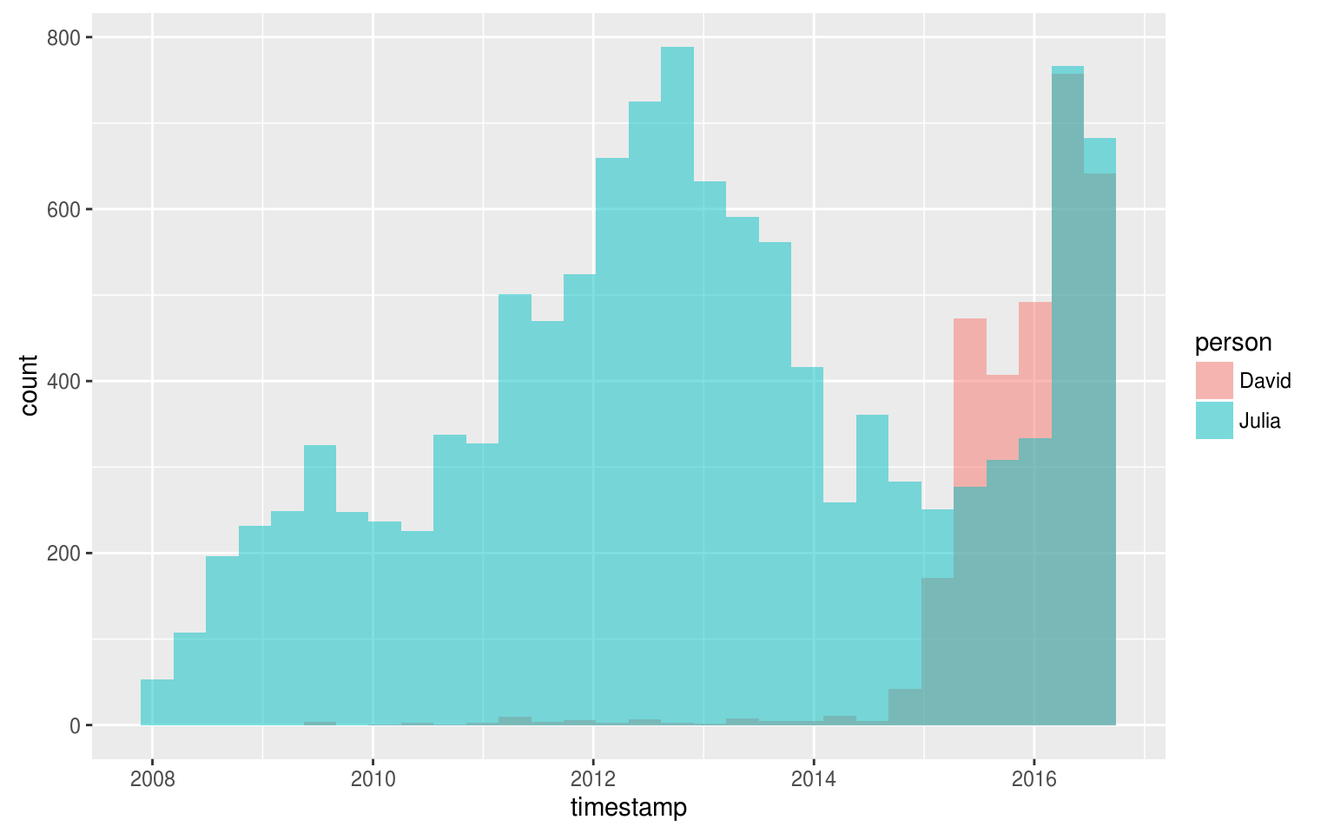
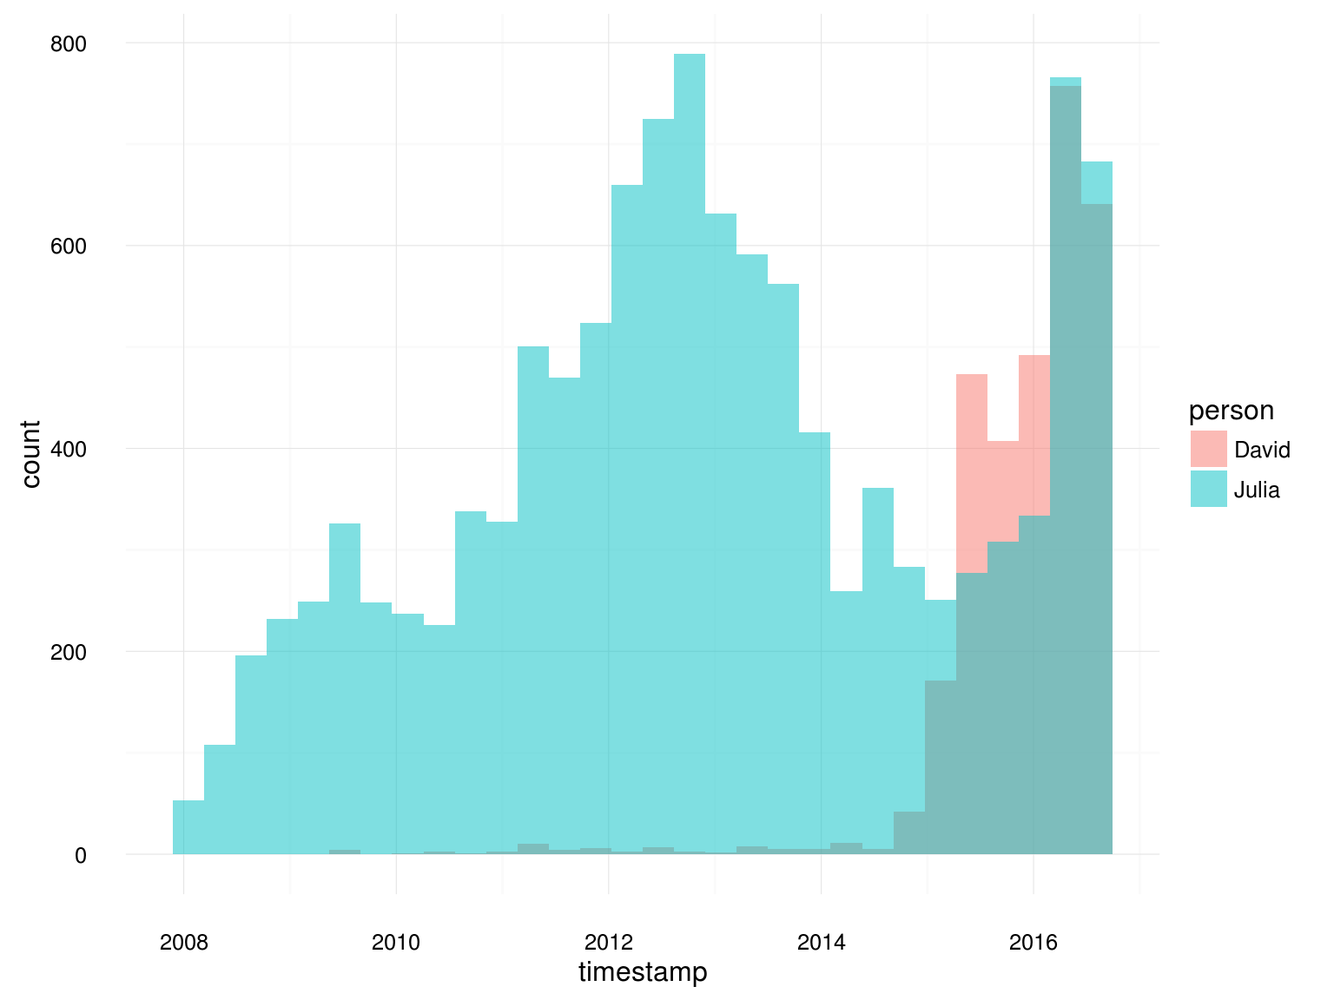
Updating book (39)

diff --git a/twitter.html b/twitter.html
@@ -205,31 +205,15 @@ code > span.in { color: #60a0b0; font-weight: bold; font-style: italic; } /* Inf
             <section class="normal" id="section-">
 <div id="twitter" class="section level1">
 <h1><span class="header-section-number">8</span> Case study: comparing Twitter archives</h1>
-<p>One type of text that has gotten a good deal of attention in recent years is text shared online via Twitter. In fact, several of the sentiment lexicons used in this book (and commonly used in general) were designed for use with and validated on tweets. Both of the authors of this book are on Twitter and are fairly regular users of it so in this case study, let’s compare the entire Twitter archives of Julia and David.</p>
+<p>One type of text that has certainly received its share of attention in recent years is text shared online via Twitter. In fact, several of the sentiment lexicons used in this book (and commonly used in general) were designed for use with and validated on tweets. Both of the authors of this book are on Twitter and are fairly regular users of it so in this case study, let’s compare the entire Twitter archives of <a href="https://twitter.com/juliasilge">Julia</a> and <a href="https://twitter.com/drob">David</a>.</p>
 <div id="getting-the-data-and-distribution-of-tweets" class="section level2">
 <h2><span class="header-section-number">8.1</span> Getting the data and distribution of tweets</h2>
 <p>An individual can download their own Twitter archive by following <a href="https://support.twitter.com/articles/20170160">directions available here</a>. We each downloaded ours and will now open them up. Let’s use lubridate to convert the string timestamps to date-time objects and just take a look at our tweeting patterns overall.</p>
-<div class="sourceCode"><pre class="sourceCode r"><code class="sourceCode r"><span class="kw">library</span>(lubridate)</code></pre></div>
-<pre><code>## Loading required package: methods</code></pre>
-<pre><code>## 
-## Attaching package: &#39;lubridate&#39;</code></pre>
-<pre><code>## The following object is masked from &#39;package:base&#39;:
-## 
-##     date</code></pre>
-<div class="sourceCode"><pre class="sourceCode r"><code class="sourceCode r"><span class="kw">library</span>(ggplot2)
-<span class="kw">library</span>(dplyr)</code></pre></div>
-<pre><code>## 
-## Attaching package: &#39;dplyr&#39;</code></pre>
-<pre><code>## The following objects are masked from &#39;package:lubridate&#39;:
-## 
-##     intersect, setdiff, union</code></pre>
-<pre><code>## The following objects are masked from &#39;package:stats&#39;:
-## 
-##     filter, lag</code></pre>
-<pre><code>## The following objects are masked from &#39;package:base&#39;:
-## 
-##     intersect, setdiff, setequal, union</code></pre>
-<div class="sourceCode"><pre class="sourceCode r"><code class="sourceCode r">tweets_julia &lt;-<span class="st"> </span><span class="kw">read.csv</span>(<span class="st">&quot;data/tweets_julia.csv&quot;</span>, <span class="dt">stringsAsFactors =</span> <span class="ot">FALSE</span>)
+<div class="sourceCode"><pre class="sourceCode r"><code class="sourceCode r"><span class="kw">library</span>(lubridate)
+<span class="kw">library</span>(ggplot2)
+<span class="kw">library</span>(dplyr)
+
+tweets_julia &lt;-<span class="st"> </span><span class="kw">read.csv</span>(<span class="st">&quot;data/tweets_julia.csv&quot;</span>, <span class="dt">stringsAsFactors =</span> <span class="ot">FALSE</span>)
 tweets_dave &lt;-<span class="st"> </span><span class="kw">read.csv</span>(<span class="st">&quot;data/tweets_dave.csv&quot;</span>, <span class="dt">stringsAsFactors =</span> <span class="ot">FALSE</span>)
 tweets_julia$timestamp &lt;-<span class="st"> </span><span class="kw">with_tz</span>(<span class="kw">ymd_hms</span>(tweets_julia$timestamp), 
                                   <span class="st">&quot;America/Denver&quot;</span>)
@@ -239,67 +223,75 @@ tweets &lt;-<span class="st"> </span><span class="kw">bind_rows</span>(tweets_ju
                     tweets_dave %&gt;%<span class="st"> </span><span class="kw">mutate</span>(<span class="dt">person =</span> <span class="st">&quot;David&quot;</span>))
 <span class="kw">ggplot</span>(tweets, <span class="kw">aes</span>(<span class="dt">x =</span> timestamp, <span class="dt">fill =</span> person)) +
 <span class="st">  </span><span class="kw">geom_histogram</span>(<span class="dt">alpha =</span> <span class="fl">0.5</span>, <span class="dt">position =</span> <span class="st">&quot;identity&quot;</span>)</code></pre></div>
-<pre><code>## `stat_bin()` using `bins = 30`. Pick better value with `binwidth`.</code></pre>
-<p><img src="08-tweet-archives_files/figure-html/setup-1.png" width="768" /> David and Julia tweet at about the same rate currently and joined Twitter about a year apart from each other, but there good 5 or so years where David was not active on Twitter and Julia was. In total, Julia has about 4 times as many tweets as David.</p>
+<p><img src="08-tweet-archives_files/figure-html/setup-1.png" width="768" /></p>
+<p>David and Julia tweet at about the same rate currently and joined Twitter about a year apart from each other, but there about 5 years where David was not active on Twitter and Julia was. In total, Julia has about 4 times as many tweets as David.</p>
 </div>
 <div id="word-frequencies-1" class="section level2">
 <h2><span class="header-section-number">8.2</span> Word frequencies</h2>
-<p>Let’s use <code>unnest_tokens</code> to make a tidy dataframe of all the words in our tweets, and remove the common English stop words.</p>
+<p>Let’s use <code>unnest_tokens</code> to make a tidy dataframe of all the words in our tweets, and remove the common English stop words. There are certain conventions in how people use text on Twitter, so we will do a bit more work with our text here than, for example, we did with the narrative text from Project Gutenberg. The first <code>mutate</code> line below removes links and cleans out some characters that we don’t want. In the call to <code>unnest_tokens</code>, we unnest using a regex pattern, instead of just looking for single unigrams (words). This regex pattern is very useful for dealing with Twitter text; it retains hashtags and mentions of usernames with the <code>\@</code> symbol. Because we have kept these types of symbols in the text, we can’t use a simple <code>anti_join</code> to remove stop words. Instead, we can take the approach shown in the <code>filter</code> line that uses <code>str_detect</code> from the stringr library.</p>
 <div class="sourceCode"><pre class="sourceCode r"><code class="sourceCode r"><span class="kw">library</span>(tidytext)
-tidy_tweets &lt;-<span class="st"> </span>tweets %&gt;%<span class="st"> </span><span class="kw">unnest_tokens</span>(word, text) %&gt;%<span class="st"> </span><span class="kw">anti_join</span>(stop_words)</code></pre></div>
-<pre><code>## Joining, by = &quot;word&quot;</code></pre>
+<span class="kw">library</span>(stringr)
+
+reg &lt;-<span class="st"> &quot;([^A-Za-z</span><span class="ch">\\</span><span class="st">d#@&#39;]|&#39;(?![A-Za-z</span><span class="ch">\\</span><span class="st">d#@]))&quot;</span>
+tidy_tweets &lt;-<span class="st"> </span>tweets %&gt;%<span class="st"> </span>
+<span class="st">  </span><span class="kw">mutate</span>(<span class="dt">text =</span> <span class="kw">str_replace_all</span>(text, <span class="st">&quot;https://t.co/[A-Za-z</span><span class="ch">\\</span><span class="st">d]+|http://[A-Za-z</span><span class="ch">\\</span><span class="st">d]+|&amp;amp;|&amp;lt;|&amp;gt;|RT&quot;</span>, <span class="st">&quot;&quot;</span>)) %&gt;%
+<span class="st">  </span><span class="kw">unnest_tokens</span>(word, text, <span class="dt">token =</span> <span class="st">&quot;regex&quot;</span>, <span class="dt">pattern =</span> reg) %&gt;%
+<span class="st">  </span><span class="kw">filter</span>(!word %in%<span class="st"> </span>stop_words$word,
+         <span class="kw">str_detect</span>(word, <span class="st">&quot;[a-z]&quot;</span>))</code></pre></div>
 <p>Now we can calculate word frequencies for each person</p>
 <div class="sourceCode"><pre class="sourceCode r"><code class="sourceCode r">frequency &lt;-<span class="st"> </span>tidy_tweets %&gt;%<span class="st"> </span><span class="kw">group_by</span>(person) %&gt;%<span class="st"> </span>
 <span class="st">  </span><span class="kw">count</span>(word, <span class="dt">sort =</span> <span class="ot">TRUE</span>) %&gt;%<span class="st"> </span>
 <span class="st">  </span><span class="kw">left_join</span>(tidy_tweets %&gt;%<span class="st"> </span><span class="kw">group_by</span>(person) %&gt;%<span class="st"> </span><span class="kw">summarise</span>(<span class="dt">total =</span> <span class="kw">n</span>())) %&gt;%
-<span class="st">  </span><span class="kw">mutate</span>(<span class="dt">freq =</span> n/total)</code></pre></div>
-<pre><code>## Joining, by = &quot;person&quot;</code></pre>
-<div class="sourceCode"><pre class="sourceCode r"><code class="sourceCode r">frequency</code></pre></div>
-<pre><code>## Source: local data frame [25,210 x 5]
+<span class="st">  </span><span class="kw">mutate</span>(<span class="dt">freq =</span> n/total)
+frequency</code></pre></div>
+<pre><code>## Source: local data frame [23,092 x 5]
 ## Groups: person [2]
 ## 
-##    person       word     n total        freq
-##     &lt;chr&gt;      &lt;chr&gt; &lt;int&gt; &lt;int&gt;       &lt;dbl&gt;
-## 1   Julia       t.co  2218 85215 0.026028281
-## 2   Julia       http  1438 85215 0.016874963
-## 3   David       t.co  1344 27338 0.049162338
-## 4   David      https  1045 27338 0.038225181
-## 5   Julia      https  1040 85215 0.012204424
-## 6   David         rt   909 27338 0.033250421
-## 7   Julia         rt   867 85215 0.010174265
-## 8   Julia       time   568 85215 0.006665493
-## 9   Julia selkie1970   565 85215 0.006630288
-## 10  Julia    skedman   518 85215 0.006078742
-## # ... with 25,200 more rows</code></pre>
+##    person           word     n total        freq
+##     &lt;chr&gt;          &lt;chr&gt; &lt;int&gt; &lt;int&gt;       &lt;dbl&gt;
+## 1   Julia           time   567 76811 0.007381755
+## 2   Julia    @selkie1970   565 76811 0.007355717
+## 3   Julia       @skedman   518 76811 0.006743826
+## 4   Julia            day   470 76811 0.006118915
+## 5   Julia           baby   410 76811 0.005337777
+## 6   David        #rstats   359 22426 0.016008205
+## 7   Julia     @doctormac   342 76811 0.004452487
+## 8   David @hadleywickham   306 22426 0.013644876
+## 9   Julia           love   303 76811 0.003944747
+## 10  Julia   @haleynburke   291 76811 0.003788520
+## # ... with 23,082 more rows</code></pre>
 <p>This is a lovely, tidy data frame but we would actually like to plot those frequencies on the x- and y-axes of a plot, so we will need to use an <code>inner_join</code> and make a different dataframe.</p>
 <div class="sourceCode"><pre class="sourceCode r"><code class="sourceCode r">frequency &lt;-<span class="st"> </span><span class="kw">inner_join</span>(frequency %&gt;%<span class="st"> </span><span class="kw">filter</span>(person ==<span class="st"> &quot;Julia&quot;</span>) %&gt;%<span class="st"> </span><span class="kw">rename</span>(<span class="dt">Julia =</span> freq),
                         frequency %&gt;%<span class="st"> </span><span class="kw">filter</span>(person ==<span class="st"> &quot;David&quot;</span>) %&gt;%<span class="st"> </span><span class="kw">rename</span>(<span class="dt">David =</span> freq),
                         <span class="dt">by =</span> <span class="st">&quot;word&quot;</span>) %&gt;%<span class="st"> </span>
 <span class="st">  </span><span class="kw">ungroup</span>() %&gt;%<span class="st"> </span><span class="kw">select</span>(word, Julia, David)
 frequency</code></pre></div>
-<pre><code>## # A tibble: 3,674 x 3
-##     word       Julia        David
-##    &lt;chr&gt;       &lt;dbl&gt;        &lt;dbl&gt;
-## 1   t.co 0.026028281 0.0491623381
-## 2   http 0.016874963 0.0150340186
-## 3  https 0.012204424 0.0382251811
-## 4     rt 0.010174265 0.0332504207
-## 5   time 0.006665493 0.0035115956
-## 6    day 0.005515461 0.0012071110
-## 7   baby 0.004811360 0.0001463165
-## 8   love 0.003555712 0.0017192187
-## 9  house 0.003403157 0.0001097374
-## 10   amp 0.003356217 0.0015363231
-## # ... with 3,664 more rows</code></pre>
+<pre><code>## # A tibble: 3,555 x 3
+##       word       Julia        David
+##      &lt;chr&gt;       &lt;dbl&gt;        &lt;dbl&gt;
+## 1     time 0.007381755 0.0042807456
+## 2      day 0.006118915 0.0014715063
+## 3     baby 0.005337777 0.0001783644
+## 4     love 0.003944747 0.0020065995
+## 5    house 0.003775501 0.0001337733
+## 6  morning 0.003645311 0.0004013199
+## 7   people 0.003358894 0.0032997414
+## 8     feel 0.003111534 0.0012931419
+## 9   pretty 0.002942287 0.0010701864
+## 10  school 0.002864173 0.0002229555
+## # ... with 3,545 more rows</code></pre>
 <div class="sourceCode"><pre class="sourceCode r"><code class="sourceCode r"><span class="kw">library</span>(scales)
+
 <span class="kw">ggplot</span>(frequency, <span class="kw">aes</span>(Julia, David)) +
 <span class="st">  </span><span class="kw">geom_jitter</span>(<span class="dt">alpha =</span> <span class="fl">0.1</span>, <span class="dt">size =</span> <span class="fl">2.5</span>, <span class="dt">width =</span> <span class="fl">0.4</span>, <span class="dt">height =</span> <span class="fl">0.4</span>) +
 <span class="st">  </span><span class="kw">geom_text</span>(<span class="kw">aes</span>(<span class="dt">label =</span> word), <span class="dt">check_overlap =</span> <span class="ot">TRUE</span>, <span class="dt">vjust =</span> <span class="fl">1.5</span>) +
+<span class="st">  </span><span class="kw">scale_color_gradient</span>(<span class="dt">limits =</span> <span class="kw">c</span>(<span class="dv">0</span>, <span class="fl">0.001</span>), <span class="dt">low =</span> <span class="st">&quot;gray30&quot;</span>, <span class="dt">high =</span> <span class="st">&quot;gray75&quot;</span>) +
 <span class="st">  </span><span class="kw">scale_x_log10</span>(<span class="dt">labels =</span> <span class="kw">percent_format</span>()) +
 <span class="st">  </span><span class="kw">scale_y_log10</span>(<span class="dt">labels =</span> <span class="kw">percent_format</span>()) +
+<span class="st">  </span><span class="kw">theme</span>(<span class="dt">legend.position=</span><span class="st">&quot;none&quot;</span>) +
 <span class="st">  </span><span class="kw">geom_abline</span>(<span class="dt">color =</span> <span class="st">&quot;red&quot;</span>)</code></pre></div>
 <p><img src="08-tweet-archives_files/figure-html/spread-1.png" width="672" /></p>
-<p>It is at this point that we should perhaps share some personal details. Although the authors of this book enjoy working together very much, it could be argued that their lives are quite different. To start with, David is about 10 years younger than Julia. Also, Julia has three children, two of who were born during the years she has been active on Twitter; we could find the tweets where she complained about being very pregnant or announced their births if we wanted to. David has used his Twitter account almost exclusively for professional purposes since he became more active, while Julia used it for entirely personal purposes until late 2015. We see these differences immediately in this plot exploring word frequencies, and they will continue to be obvious.</p>
+<p>This may not even need to be pointed out, but David and Julia have used their Twitter accounts rather differently over the course of the past several years. David has used his Twitter account almost exclusively for professional purposes since he became more active, while Julia used it for entirely personal purposes until late 2015. We see these differences immediately in this plot exploring word frequencies, and they will continue to be obvious. Words near the red line in this plot are used with about equal frequencies by David and Julia, while words far away from the line are used much more by one person compared to the other. Because of the inner join we did above, words, hashtags, and usernames that appear in this plot are ones that we have both used at least once.</p>
 <p>TODO: lots</p>
 
 </div>

diff --git a/sentiment.html b/sentiment.html
@@ -209,6 +209,7 @@ code > span.in { color: #60a0b0; font-weight: bold; font-style: italic; } /* Inf
 <h2><span class="header-section-number">3.1</span> The <code>sentiments</code> dataset</h2>
 <p>There are a variety of methods and dictionaries that exist for evaluating the opinion or emotion in text. The tidytext package contains three sentiment lexicons in the <code>sentiments</code> dataset.</p>
 <div class="sourceCode"><pre class="sourceCode r"><code class="sourceCode r"><span class="kw">library</span>(tidytext)
+
 sentiments</code></pre></div>
 <pre><code>## # A tibble: 23,165 x 4
 ##           word sentiment lexicon score

diff --git a/08-tweet-archives.md b/08-tweet-archives.md
@@ -1,6 +1,8 @@
 # Case study: comparing Twitter archives {#twitter}
 
-One type of text that has gotten a good deal of attention in recent years is text shared online via Twitter. In fact, several of the sentiment lexicons used in this book (and commonly used in general) were designed for use with and validated on tweets. Both of the authors of this book are on Twitter and are fairly regular users of it so in this case study, let's compare the entire Twitter archives of Julia and David.
+
+
+One type of text that has certainly received its share of attention in recent years is text shared online via Twitter. In fact, several of the sentiment lexicons used in this book (and commonly used in general) were designed for use with and validated on tweets. Both of the authors of this book are on Twitter and are fairly regular users of it so in this case study, let's compare the entire Twitter archives of [Julia](https://twitter.com/juliasilge) and [David](https://twitter.com/drob).
 
 ## Getting the data and distribution of tweets
 
@@ -9,52 +11,9 @@ An individual can download their own Twitter archive by following [directions av
 
 ```r
 library(lubridate)
-```
-
-```
-## Loading required package: methods
-```
-
-```
-## 
-## Attaching package: 'lubridate'
-```
-
-```
-## The following object is masked from 'package:base':
-## 
-##     date
-```
-
-```r
 library(ggplot2)
 library(dplyr)
-```
 
-```
-## 
-## Attaching package: 'dplyr'
-```
-
-```
-## The following objects are masked from 'package:lubridate':
-## 
-##     intersect, setdiff, union
-```
-
-```
-## The following objects are masked from 'package:stats':
-## 
-##     filter, lag
-```
-
-```
-## The following objects are masked from 'package:base':
-## 
-##     intersect, setdiff, setequal, union
-```
-
-```r
 tweets_julia <- read.csv("data/tweets_julia.csv", stringsAsFactors = FALSE)
 tweets_dave <- read.csv("data/tweets_dave.csv", stringsAsFactors = FALSE)
 tweets_julia$timestamp <- with_tz(ymd_hms(tweets_julia$timestamp), 
@@ -67,25 +26,25 @@ ggplot(tweets, aes(x = timestamp, fill = person)) +
   geom_histogram(alpha = 0.5, position = "identity")
 ```
 
-```
-## `stat_bin()` using `bins = 30`. Pick better value with `binwidth`.
-```
-
 <img src="08-tweet-archives_files/figure-html/setup-1.png" width="768" />
-David and Julia tweet at about the same rate currently and joined Twitter about a year apart from each other, but there good 5 or so years where David was not active on Twitter and Julia was. In total, Julia has about 4 times as many tweets as David.
+
+David and Julia tweet at about the same rate currently and joined Twitter about a year apart from each other, but there about 5 years where David was not active on Twitter and Julia was. In total, Julia has about 4 times as many tweets as David.
 
 ## Word frequencies
 
-Let's use `unnest_tokens` to make a tidy dataframe of all the words in our tweets, and remove the common English stop words.
+Let's use `unnest_tokens` to make a tidy dataframe of all the words in our tweets, and remove the common English stop words. There are certain conventions in how people use text on Twitter, so we will do a bit more work with our text here than, for example, we did with the narrative text from Project Gutenberg. The first `mutate` line below removes links and cleans out some characters that we don't want. In the call to `unnest_tokens`, we unnest using a regex pattern, instead of just looking for single unigrams (words). This regex pattern is very useful for dealing with Twitter text; it retains hashtags and mentions of usernames with the `\@` symbol. Because we have kept these types of symbols in the text, we can't use a simple `anti_join` to remove stop words. Instead, we can take the approach shown in the `filter` line that uses `str_detect` from the stringr library.
 
 
 ```r
 library(tidytext)
-tidy_tweets <- tweets %>% unnest_tokens(word, text) %>% anti_join(stop_words)
-```
+library(stringr)
 
-```
-## Joining, by = "word"
+reg <- "([^A-Za-z\\d#@']|'(?![A-Za-z\\d#@]))"
+tidy_tweets <- tweets %>% 
+  mutate(text = str_replace_all(text, "https://t.co/[A-Za-z\\d]+|http://[A-Za-z\\d]+|&amp;|&lt;|&gt;|RT", "")) %>%
+  unnest_tokens(word, text, token = "regex", pattern = reg) %>%
+  filter(!word %in% stop_words$word,
+         str_detect(word, "[a-z]"))
 ```
 
 Now we can calculate word frequencies for each person
@@ -96,33 +55,26 @@ frequency <- tidy_tweets %>% group_by(person) %>%
   count(word, sort = TRUE) %>% 
   left_join(tidy_tweets %>% group_by(person) %>% summarise(total = n())) %>%
   mutate(freq = n/total)
-```
-
-```
-## Joining, by = "person"
-```
-
-```r
 frequency
 ```
 
 ```
-## Source: local data frame [25,210 x 5]
+## Source: local data frame [23,092 x 5]
 ## Groups: person [2]
 ## 
-##    person       word     n total        freq
-##     <chr>      <chr> <int> <int>       <dbl>
-## 1   Julia       t.co  2218 85215 0.026028281
-## 2   Julia       http  1438 85215 0.016874963
-## 3   David       t.co  1344 27338 0.049162338
-## 4   David      https  1045 27338 0.038225181
-## 5   Julia      https  1040 85215 0.012204424
-## 6   David         rt   909 27338 0.033250421
-## 7   Julia         rt   867 85215 0.010174265
-## 8   Julia       time   568 85215 0.006665493
-## 9   Julia selkie1970   565 85215 0.006630288
-## 10  Julia    skedman   518 85215 0.006078742
-## # ... with 25,200 more rows
+##    person           word     n total        freq
+##     <chr>          <chr> <int> <int>       <dbl>
+## 1   Julia           time   567 76811 0.007381755
+## 2   Julia    @selkie1970   565 76811 0.007355717
+## 3   Julia       @skedman   518 76811 0.006743826
+## 4   Julia            day   470 76811 0.006118915
+## 5   Julia           baby   410 76811 0.005337777
+## 6   David        #rstats   359 22426 0.016008205
+## 7   Julia     @doctormac   342 76811 0.004452487
+## 8   David @hadleywickham   306 22426 0.013644876
+## 9   Julia           love   303 76811 0.003944747
+## 10  Julia   @haleynburke   291 76811 0.003788520
+## # ... with 23,082 more rows
 ```
 
 This is a lovely, tidy data frame but we would actually like to plot those frequencies on the x- and y-axes of a plot, so we will need to use an `inner_join` and make a different dataframe.
@@ -137,35 +89,39 @@ frequency
 ```
 
 ```
-## # A tibble: 3,674 x 3
-##     word       Julia        David
-##    <chr>       <dbl>        <dbl>
-## 1   t.co 0.026028281 0.0491623381
-## 2   http 0.016874963 0.0150340186
-## 3  https 0.012204424 0.0382251811
-## 4     rt 0.010174265 0.0332504207
-## 5   time 0.006665493 0.0035115956
-## 6    day 0.005515461 0.0012071110
-## 7   baby 0.004811360 0.0001463165
-## 8   love 0.003555712 0.0017192187
-## 9  house 0.003403157 0.0001097374
-## 10   amp 0.003356217 0.0015363231
-## # ... with 3,664 more rows
+## # A tibble: 3,555 x 3
+##       word       Julia        David
+##      <chr>       <dbl>        <dbl>
+## 1     time 0.007381755 0.0042807456
+## 2      day 0.006118915 0.0014715063
+## 3     baby 0.005337777 0.0001783644
+## 4     love 0.003944747 0.0020065995
+## 5    house 0.003775501 0.0001337733
+## 6  morning 0.003645311 0.0004013199
+## 7   people 0.003358894 0.0032997414
+## 8     feel 0.003111534 0.0012931419
+## 9   pretty 0.002942287 0.0010701864
+## 10  school 0.002864173 0.0002229555
+## # ... with 3,545 more rows
 ```
 
 ```r
 library(scales)
+
 ggplot(frequency, aes(Julia, David)) +
   geom_jitter(alpha = 0.1, size = 2.5, width = 0.4, height = 0.4) +
   geom_text(aes(label = word), check_overlap = TRUE, vjust = 1.5) +
+  scale_color_gradient(limits = c(0, 0.001), low = "gray30", high = "gray75") +
   scale_x_log10(labels = percent_format()) +
   scale_y_log10(labels = percent_format()) +
+  theme(legend.position="none") +
   geom_abline(color = "red")
 ```
 
 <img src="08-tweet-archives_files/figure-html/spread-1.png" width="672" />
 
 
-It is at this point that we should perhaps share some personal details. Although the authors of this book enjoy working together very much, it could be argued that their lives are quite different. To start with, David is about 10 years younger than Julia. Also, Julia has three children, two of who were born during the years she has been active on Twitter; we could find the tweets where she complained about being very pregnant or announced their births if we wanted to. David has used his Twitter account almost exclusively for professional purposes since he became more active, while Julia used it for entirely personal purposes until late 2015. We see these differences immediately in this plot exploring word frequencies, and they will continue to be obvious.
+This may not even need to be pointed out, but David and Julia have used their Twitter accounts rather differently over the course of the past several years. David has used his Twitter account almost exclusively for professional purposes since he became more active, while Julia used it for entirely personal purposes until late 2015. We see these differences immediately in this plot exploring word frequencies, and they will continue to be obvious. Words near the red line in this plot are used with about equal frequencies by David and Julia, while words far away from the line are used much more by one person compared to the other. Because of the inner join we did above, words, hashtags, and usernames that appear in this plot are ones that we have both used at least once.
+
 
 TODO: lots

diff --git a/03-sentiment-analysis.md b/03-sentiment-analysis.md
@@ -9,6 +9,7 @@ There are a variety of methods and dictionaries that exist for evaluating the op
 
 ```r
 library(tidytext)
+
 sentiments
 ```
 
